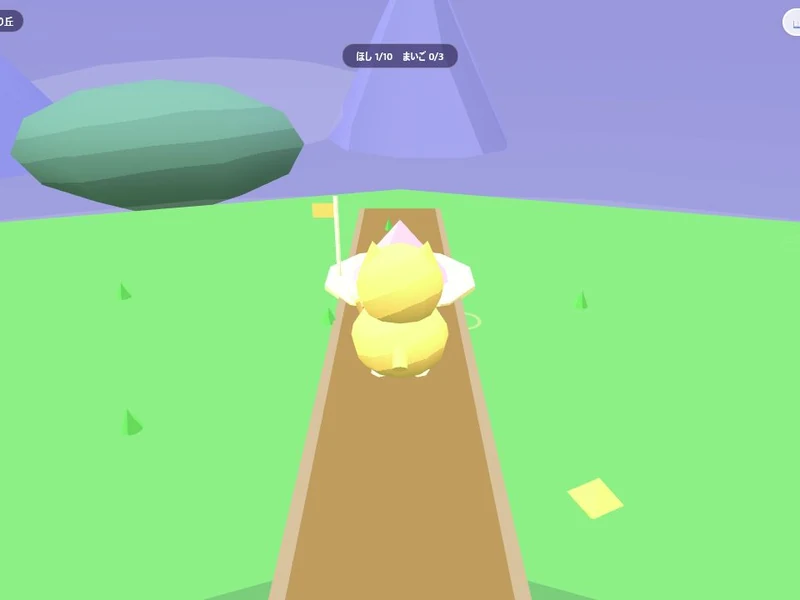
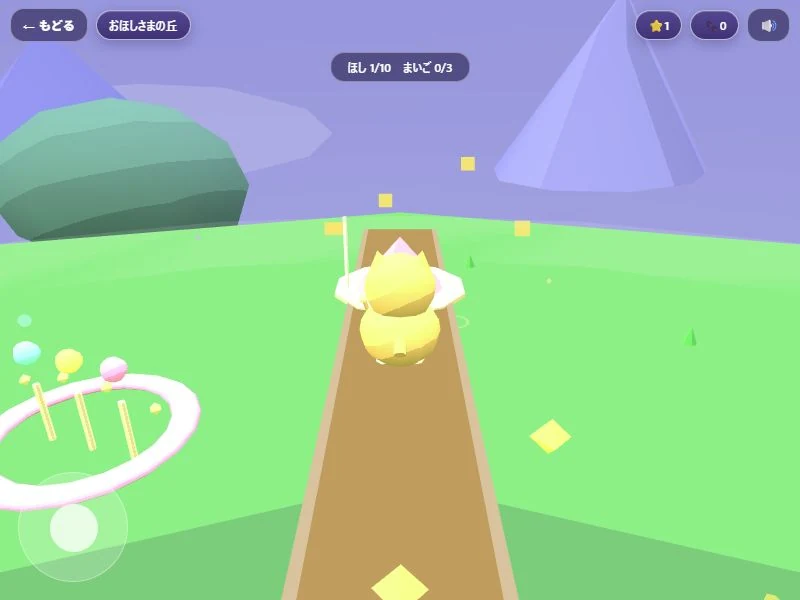
feat: レスキューの演出外観とゲームカードをリッチ化

diff --git a/public/games/starry_animal_rescue_v1.html b/public/games/starry_animal_rescue_v1.html
@@ -11,22 +11,28 @@
     canvas{display:block}
     #game{position:fixed;inset:0}
     .screen{position:fixed;inset:0;z-index:40;display:flex;flex-direction:column;align-items:center;justify-content:center;gap:14px;text-align:center;padding:calc(16px + var(--sat,0px)) calc(16px + var(--sar,0px)) calc(16px + var(--sab,0px)) calc(16px + var(--sal,0px));background:linear-gradient(160deg,var(--sky1),var(--sky2));transition:.3s;overflow-y:auto}
+    .screen.screen-in{animation:screenIn .42s cubic-bezier(.2,.85,.3,1)}
+    @keyframes screenIn{from{opacity:0;transform:scale(1.025)}to{opacity:1;transform:scale(1)}}
     .hidden{display:none!important}
     h1.tt{font-size:clamp(26px,6vw,42px);font-weight:900;margin:0;color:#fff8d8;text-shadow:0 3px 0 rgba(60,40,120,.5)}
     .sub{font-size:14px;font-weight:800;color:#eaf0ff;margin:0}
-    .bigbtn{font-family:inherit;font-weight:900;font-size:18px;color:#4a3a10;background:linear-gradient(180deg,#fff2a8,#ffd35a);border:none;border-radius:20px;padding:14px 40px;cursor:pointer;box-shadow:0 6px 0 #d69a2a;touch-action:manipulation;min-height:52px}
+    .bigbtn{position:relative;overflow:hidden;font-family:inherit;font-weight:900;font-size:18px;color:#4a3a10;background:linear-gradient(180deg,#fffbd1,#ffd35a);border:2px solid rgba(255,255,255,.7);border-radius:22px;padding:14px 40px;cursor:pointer;box-shadow:0 6px 0 #d69a2a,0 10px 24px rgba(21,18,70,.25);touch-action:manipulation;min-height:52px;transition:transform .18s,filter .18s}
+    .bigbtn::after{content:"";position:absolute;inset:-30% auto -30% -35%;width:26%;transform:skewX(-24deg);background:linear-gradient(90deg,transparent,rgba(255,255,255,.75),transparent);animation:btnShine 3.8s ease-in-out infinite}
+    .bigbtn:hover{filter:brightness(1.07);transform:translateY(-2px)}
+    @keyframes btnShine{0%,68%{left:-35%}90%,100%{left:125%}}
     .bigbtn:active{transform:translateY(4px);box-shadow:0 2px 0 #d69a2a}
     .bigbtn.sub2{background:linear-gradient(180deg,#dff0ff,#a8d0ff);color:#1a3a6a;box-shadow:0 6px 0 #6a97cc}
     .bigbtn.sub2:active{box-shadow:0 2px 0 #6a97cc}
     .bigbtn:disabled{opacity:.4;cursor:default}
     .rowwrap{display:flex;flex-wrap:wrap;gap:12px;justify-content:center;max-width:900px}
-    .charcard{width:150px;background:rgba(255,255,255,.92);border-radius:20px;padding:12px 8px;cursor:pointer;border:4px solid transparent;color:#333}
-    .charcard.sel{border-color:#ffd35a;background:#fff9e0}
+    .charcard{width:150px;background:linear-gradient(180deg,rgba(255,255,255,.98),rgba(235,241,255,.94));border-radius:22px;padding:12px 8px;cursor:pointer;border:4px solid transparent;color:#333;box-shadow:0 10px 24px rgba(18,20,75,.2);transition:.2s}
+    .charcard.sel{border-color:#ffd35a;background:#fff9e0;transform:translateY(-6px) scale(1.035);box-shadow:0 0 0 6px rgba(255,211,90,.2),0 14px 28px rgba(18,20,75,.25)}
     .charcard canvas{width:100%;height:110px;display:block;border-radius:12px;background:radial-gradient(circle,#eaf3ff,#cfe0ff)}
     .charcard .cn{font-weight:900;font-size:16px;margin-top:6px}
     .charcard .cf{font-size:11px;color:#666;margin-top:2px;line-height:1.5}
     #stageGrid{display:grid;grid-template-columns:repeat(auto-fit,minmax(140px,1fr));gap:12px;max-width:760px;width:100%}
-    .stagecard{background:rgba(255,255,255,.92);border-radius:18px;padding:12px;cursor:pointer;color:#333;text-align:center}
+    .stagecard{background:linear-gradient(180deg,rgba(255,255,255,.98),rgba(235,241,255,.93));border-radius:20px;padding:12px;cursor:pointer;color:#333;text-align:center;box-shadow:0 9px 22px rgba(18,20,75,.2);border:2px solid rgba(255,255,255,.68);transition:.2s}
+    .stagecard:not(.locked):hover{transform:translateY(-5px);box-shadow:0 0 0 4px rgba(255,223,105,.25),0 13px 26px rgba(18,20,75,.25)}
     .stagecard.locked{opacity:.55;cursor:default}
     .stagecard canvas{width:100%;height:80px;border-radius:10px;display:block}
     .stagecard .sn{font-weight:900;font-size:13px;margin-top:6px}
@@ -35,7 +41,7 @@
     #hud{position:fixed;inset:0;z-index:12;pointer-events:none;opacity:0;transition:.3s}
     #hud.show{opacity:1}
     .hudtop{position:absolute;left:calc(10px + var(--sal,0px));right:calc(10px + var(--sar,0px));top:calc(8px + var(--sat,0px));display:flex;align-items:center;gap:8px;pointer-events:auto}
-    .chip{background:rgba(20,20,60,.55);border:1px solid rgba(255,255,255,.4);border-radius:14px;padding:5px 11px;font-weight:900;font-size:12px;color:#fff;white-space:nowrap}
+    .chip{background:linear-gradient(180deg,rgba(61,60,130,.82),rgba(30,29,90,.78));border:1px solid rgba(255,255,255,.62);border-radius:16px;padding:6px 12px;font-weight:900;font-size:12px;color:#fff;white-space:nowrap;box-shadow:0 4px 13px rgba(10,10,45,.24),inset 0 1px rgba(255,255,255,.2)}
     .spacer{flex:1}
     #goalTxt{position:absolute;left:50%;top:calc(52px + var(--sat,0px));transform:translateX(-50%);background:rgba(20,20,60,.55);border:1px solid rgba(255,255,255,.35);border-radius:14px;padding:6px 16px;font-size:12px;font-weight:800;white-space:nowrap;pointer-events:none}
     #toastMsg{position:absolute;left:50%;top:30%;transform:translate(-50%,-50%) scale(.85);opacity:0;transition:.25s;font-weight:900;font-size:clamp(18px,4vw,26px);color:#fff8d8;text-shadow:0 3px 10px rgba(0,0,0,.4);text-align:center;pointer-events:none;white-space:nowrap}
@@ -49,8 +55,12 @@
     #sparkleBtn .sp-label{font-size:14px}
     #backChip{pointer-events:auto;background:rgba(20,20,60,.55);border:1px solid rgba(255,255,255,.4);border-radius:14px;padding:6px 12px;font-weight:900;font-size:12px;color:#fff;cursor:pointer;min-height:34px}
     #bgmChip{pointer-events:auto;background:rgba(20,20,60,.55);border:1px solid rgba(255,255,255,.4);border-radius:14px;padding:6px 10px;font-size:15px;cursor:pointer;min-height:34px}
-    .resultbox{background:rgba(255,255,255,.95);border-radius:22px;padding:22px 20px;max-width:420px;width:100%;color:#333}
-    .starsrow{font-size:40px;letter-spacing:6px;margin:6px 0}
+    .resultbox{position:relative;overflow:hidden;background:linear-gradient(160deg,#fffef5,#f0ecff);border:4px solid rgba(255,255,255,.9);border-radius:28px;padding:24px 20px;max-width:440px;width:100%;color:#333;box-shadow:0 18px 50px rgba(22,18,85,.35),0 0 45px rgba(255,224,104,.18);animation:resultPop .55s cubic-bezier(.18,.9,.22,1)}
+    .resultbox::before{content:"✦  ·  ✧  ·  ✦";position:absolute;left:0;right:0;top:6px;color:#ffd052;font-size:20px;letter-spacing:12px;animation:twinkle 1.2s ease-in-out infinite alternate}
+    @keyframes resultPop{from{opacity:0;transform:scale(.72) rotate(-2deg)}to{opacity:1;transform:scale(1)}}
+    .starsrow{font-size:44px;letter-spacing:6px;margin:10px 0}
+    .starsrow .on{display:inline-block;animation:starPop .52s cubic-bezier(.2,1.4,.4,1) both}.starsrow .on:nth-child(2){animation-delay:.16s}.starsrow .on:nth-child(3){animation-delay:.32s}
+    @keyframes starPop{from{opacity:0;transform:scale(.15) rotate(-45deg)}to{opacity:1;transform:scale(1) rotate(0)}}
     .starsrow .off{color:#ddd}
     .starsrow .on{color:#ffc93c}
     #dressGrid{display:grid;grid-template-columns:repeat(auto-fit,minmax(90px,1fr));gap:10px;max-width:560px;width:100%}
@@ -64,14 +74,47 @@
     body.portrait #rotate{display:flex}
     a11y-hidden{display:none}
     @media(max-width:480px){ .bigbtn{padding:12px 28px;font-size:16px} }
+
+    /* タイトル：軽量な絵本風ヒーローアート */
+    #scrTitle{isolation:isolate;overflow:hidden;background:radial-gradient(circle at 50% 70%,rgba(255,193,241,.34),transparent 30%),linear-gradient(160deg,#273a8b 0%,#675ac9 50%,#b07fdc 100%)}
+    .title-sky{position:absolute;inset:0;z-index:-2;pointer-events:none;overflow:hidden}
+    .title-sky::before{content:"";position:absolute;inset:0;background-image:radial-gradient(circle,#fffbd7 0 1.5px,transparent 2px),radial-gradient(circle,#d9f7ff 0 1px,transparent 1.6px);background-size:74px 74px,47px 47px;background-position:3px 8px,22px 17px;animation:starsDrift 16s linear infinite}
+    .title-rainbow{position:absolute;width:720px;height:280px;border-radius:50%;border:22px solid rgba(255,157,205,.2);border-left-color:rgba(255,226,116,.2);border-right-color:rgba(132,231,255,.2);left:50%;bottom:-205px;transform:translateX(-50%) rotate(-4deg);box-shadow:0 0 0 18px rgba(167,255,215,.12),0 0 0 38px rgba(191,166,255,.12)}
+    .title-cloud{position:absolute;width:190px;height:54px;border-radius:60px;background:rgba(255,255,255,.2);filter:blur(.2px);animation:cloudFloat 14s linear infinite}.title-cloud::before,.title-cloud::after{content:"";position:absolute;border-radius:50%;background:inherit}.title-cloud::before{width:82px;height:82px;left:28px;bottom:4px}.title-cloud::after{width:62px;height:62px;right:26px;bottom:5px}.title-cloud.c1{top:18%;left:-210px}.title-cloud.c2{top:63%;left:-240px;animation-delay:-7s;transform:scale(.72)}
+    .title-logo{position:relative;max-width:min(760px,92vw);padding:10px 24px 14px;border-radius:30px;background:linear-gradient(180deg,rgba(255,255,255,.13),rgba(255,255,255,.04));border:1px solid rgba(255,255,255,.22);box-shadow:0 14px 40px rgba(15,15,70,.28),inset 0 1px rgba(255,255,255,.25);animation:logoArrive .9s cubic-bezier(.2,.9,.25,1)}
+    #scrTitle h1.tt{font-size:clamp(31px,6.7vw,58px);line-height:1.05;background:linear-gradient(180deg,#fffbd7,#ffd86b 58%,#ffb9dd);-webkit-background-clip:text;background-clip:text;color:transparent;-webkit-text-stroke:1px rgba(99,56,145,.55);text-shadow:0 5px 0 rgba(82,49,139,.48),0 0 22px rgba(255,238,143,.38);animation:logoBob 3s ease-in-out infinite}
+    #scrTitle .sub{font-size:clamp(14px,2.5vw,19px);color:#fff9dd;text-shadow:0 2px 8px rgba(20,18,70,.6);letter-spacing:.08em}
+    .title-mascots{height:120px;width:min(610px,94vw);display:flex;align-items:flex-end;justify-content:center;gap:clamp(10px,4vw,42px);pointer-events:none}
+    .title-mascot{position:relative;width:76px;height:82px;border-radius:48% 48% 42% 42%;background:var(--fur);box-shadow:inset 0 -10px rgba(69,43,83,.1),0 13px 22px rgba(20,18,70,.24);animation:mascotBob 2.3s ease-in-out infinite;transform-origin:50% 100%}
+    .title-mascot::before,.title-mascot::after{content:"";position:absolute;top:-18px;width:31px;height:38px;background:var(--fur);border-radius:65% 65% 35% 35%;z-index:-1}.title-mascot::before{left:3px;transform:rotate(-20deg)}.title-mascot::after{right:3px;transform:rotate(20deg)}
+    .title-mascot .face{position:absolute;inset:26px 12px auto;height:30px;border-radius:50%;background:rgba(255,247,229,.7)}.title-mascot .face::before{content:"•   •";color:#382f4a;font-size:23px;letter-spacing:8px;line-height:12px;white-space:pre}.title-mascot .face::after{content:"ᴗ";display:block;color:#764d5e;font-size:18px;line-height:22px}
+    .title-mascot.m2{animation-delay:-.5s;transform:scale(.9)}.title-mascot.m3{animation-delay:-1.1s}.title-mascot.m4{animation-delay:-1.6s;transform:scale(.9)}
+    .title-lost{position:absolute;right:7%;bottom:12%;width:48px;height:48px;border-radius:50%;background:#fff4b6;box-shadow:0 0 25px #ffe77b;animation:mascotBob 1.8s ease-in-out infinite}.title-lost::after{content:"♡";color:#f28db9;font-size:24px;line-height:48px}
+    @keyframes logoArrive{from{opacity:0;transform:translateY(-35px) scale(.82)}to{opacity:1;transform:none}}@keyframes logoBob{50%{transform:translateY(-5px) scale(1.015)}}@keyframes mascotBob{50%{transform:translateY(-9px) rotate(2deg)}}@keyframes starsDrift{to{background-position:77px 82px,69px 64px}}@keyframes cloudFloat{from{left:-240px}to{left:110%}}@keyframes twinkle{to{opacity:.45;transform:scale(.96)}}
+    .tap-star{position:fixed;z-index:80;color:#fff2a8;font-size:22px;pointer-events:none;animation:tapStar .75s ease-out forwards}@keyframes tapStar{to{opacity:0;transform:translate(var(--dx),var(--dy)) scale(.25) rotate(120deg)}}
+
+    #stageIntro{position:fixed;inset:0;z-index:35;display:none;align-items:center;justify-content:center;pointer-events:none;background:radial-gradient(circle,rgba(255,246,191,.22),rgba(36,38,110,.28));backdrop-filter:blur(2px)}
+    #stageIntro.show{display:flex;animation:introFade 1.55s ease both}
+    .intro-card{padding:20px 34px;border:2px solid rgba(255,255,255,.72);border-radius:28px;background:linear-gradient(160deg,rgba(64,57,145,.9),rgba(125,91,190,.82));box-shadow:0 16px 45px rgba(15,15,65,.38),0 0 34px rgba(255,226,109,.28);transform:scale(.8);animation:introCard 1.55s cubic-bezier(.2,.9,.3,1) both}
+    #stageIntroName{font-size:clamp(28px,6vw,50px);font-weight:900;color:#fff7c7;text-shadow:0 4px rgba(61,38,118,.6)}#stageIntroMission{font-size:clamp(14px,2.8vw,20px);font-weight:900;color:#dff8ff;margin-top:8px}
+    @keyframes introFade{0%{opacity:0}18%,76%{opacity:1}100%{opacity:0}}@keyframes introCard{0%{transform:scale(.65) translateY(24px)}25%,72%{transform:scale(1)}100%{transform:scale(1.04) translateY(-8px)}}
   </style>
 </head>
 <body>
   <div id="game"></div>
 
   <div id="scrTitle" class="screen">
-    <h1 class="tt">ほしぞらアニマルレスキュー</h1>
-    <p class="sub">どうぶつたちを たすけにいこう！</p>
+    <div class="title-sky"><div class="title-rainbow"></div><div class="title-cloud c1"></div><div class="title-cloud c2"></div><div class="title-lost"></div></div>
+    <div class="title-logo">
+      <h1 class="tt">ほしぞら<br>アニマルレスキュー</h1>
+      <p class="sub">ほしを あつめて まいごを たすけよう！</p>
+    </div>
+    <div class="title-mascots" aria-hidden="true">
+      <div class="title-mascot m1" style="--fur:#ffcf7a"><span class="face"></span></div>
+      <div class="title-mascot m2" style="--fur:#ffe6f0"><span class="face"></span></div>
+      <div class="title-mascot m3" style="--fur:#c98a5a"><span class="face"></span></div>
+      <div class="title-mascot m4" style="--fur:#ff9a52"><span class="face"></span></div>
+    </div>
     <button class="bigbtn" id="btnStart" aria-label="はじめる">はじめる</button>
     <button class="bigbtn sub2 hidden" id="btnContinue" aria-label="つづきから">つづきから</button>
     <button class="bigbtn sub2" id="btnMusicTitle" aria-label="おんがく">🎵 おんがく</button>
@@ -131,6 +174,8 @@
     <div id="joyBase"><div id="joyNub"></div></div>
     <button id="sparkleBtn" aria-label="きらきらアクション"><span class="sp-ico">✨</span><span class="sp-label" id="sparkleLabel">キラキラ</span></button>
   </div>
+
+  <div id="stageIntro" aria-hidden="true"><div class="intro-card"><div id="stageIntroName"></div><div id="stageIntroMission"></div></div></div>
 
   <div id="rotate"><div class="ph">📱</div><div>よこむきにして<br>あそんでね</div></div>
 
@@ -376,6 +421,7 @@ function burst(x,y,z,color,count,speed){
     d.vx=Math.cos(th)*Math.cos(ph)*sp; d.vy=Math.sin(ph)*sp+2; d.vz=Math.sin(th)*Math.cos(ph)*sp;
     pCol[idx*3]=col.r; pCol[idx*3+1]=col.g; pCol[idx*3+2]=col.b;
   }
+  pGeo.attributes.color.needsUpdate = true;
 }
 function updateParticles(dt){
   for(var i=0;i<P_MAX;i++){
@@ -386,6 +432,28 @@ function updateParticles(dt){
     }
   }
   pGeo.attributes.position.needsUpdate = true;
+}
+function addMagicMotes(group,st,anim){
+  var cols=[0xfff0a8,0xc9f7ff,0xffbddd,0xcbbcff];
+  for(var i=0;i<14;i++){
+    var m=meshOf(GEO.octa,new THREE.MeshBasicMaterial({color:cols[(i+st.id)%cols.length],transparent:true,opacity:.62,depthWrite:false,fog:true}));
+    m.scale.setScalar(.055+(i%3)*.018);
+    var a=i/14*Math.PI*2, r=5+(i%5)*3.1;
+    m.position.set(Math.cos(a)*r,.8+(i%4)*.55,Math.sin(a)*r);
+    m.userData={cx:m.position.x,cy:m.position.y,cz:m.position.z,r:.25+(i%3)*.12,phase:i*.83};
+    group.add(m); anim.motes.push(m);
+  }
+}
+function addWelcomeScene(group,st,start,anim){
+  var root=new THREE.Group(); root.position.set(4.2,0,start.z-3.4); root.rotation.y=-.3;
+  var palette=st.id===0?[0xff8fc8,0xffdf69,0x77e7db]:st.id===1?[0xaedcff,0xffffff,0xffbddd]:st.id===2?[0xff75c8,0x75e8ff,0xffdf58]:st.id===3?[0xb78cff,0x78efc8,0xffc2ec]:[0x8fdcff,0xffdf79,0xd3a8ff];
+  for(var i=0;i<3;i++){
+    var pole=meshOf(GEO.cyl,mat(0xfff1c4)); pole.scale.set(.045,.9,.045); pole.position.set((i-1)*.7,.9,0); root.add(pole);
+    var bulb=meshOf(GEO.sphereLo,mat(palette[i],{emissive:palette[i],emissiveIntensity:.32})); bulb.scale.setScalar(.16); bulb.position.set((i-1)*.7,1.82,0); root.add(bulb);
+  }
+  var ribbon=meshOf(GEO.torus,mat(palette[st.id%3],{emissive:palette[st.id%3],emissiveIntensity:.2})); ribbon.scale.set(1.25,1.25,.45); ribbon.position.y=.75; ribbon.rotation.x=Math.PI/2; root.add(ribbon);
+  for(var j=0;j<4;j++){var star=meshOf(GEO.octa,mat(0xffef8c,{emissive:0xaa7a20,emissiveIntensity:.28}));star.scale.setScalar(.09);star.position.set(-1.1+j*.72,1.25+Math.sin(j)*.22,.12);root.add(star);}
+  group.add(root);
 }
 
 /* ---------- キャラクター生成（頭・胴・手足・しっぽを分離、背面からも動物と分かる形状） ---------- */
@@ -400,8 +468,12 @@ function buildCharacterMesh(charId, equipped){
   var muzzle = meshOf(GEO.sphereLo, mat(0xf3ede0)); muzzle.scale.set(0.2,0.16,0.22); muzzle.position.set(0,0.97,0.4); g.add(muzzle);
   var cheekMat = mat(0xffb3c9);
   [-0.19,0.19].forEach(function(sx){ var ch=meshOf(GEO.sphereLo, cheekMat); ch.scale.setScalar(0.075); ch.position.set(sx,0.96,0.38); g.add(ch); });
-  var eyeMat = mat(0x333333);
-  [-0.16,0.16].forEach(function(sx){ var ey=meshOf(GEO.sphereLo, eyeMat); ey.scale.setScalar(0.05); ey.position.set(sx,1.05,0.44); g.add(ey); });
+  var eyeMat = mat(0x333333), eyes=[];
+  [-0.16,0.16].forEach(function(sx){
+    var ey=meshOf(GEO.sphere, eyeMat); ey.scale.set(0.058,0.072,0.045); ey.position.set(sx,1.06,0.445); g.add(ey); eyes.push(ey);
+    var hi=meshOf(GEO.sphereLo,mat(0xfffcf0)); hi.scale.setScalar(0.017); hi.position.set(sx-0.014,1.085,0.486); g.add(hi);
+  });
+  var nose=meshOf(GEO.sphereLo,mat(0x6f4853)); nose.scale.set(0.045,0.035,0.035); nose.position.set(0,0.99,0.56); g.add(nose);
   /* 耳（大きめ・種別ごとの形） */
   var ears=[];
   if(c.ear==="cat" || c.ear==="fox"){
@@ -456,7 +528,7 @@ function buildCharacterMesh(charId, equipped){
   extras.wandStar = star;
 
   g.userData.headY = 1.04; g.userData.extras = extras;
-  g.userData.legs = legs; g.userData.arms = arms; g.userData.tail = tail; g.userData.ears = ears; g.userData.body = body;
+  g.userData.legs = legs; g.userData.arms = arms; g.userData.tail = tail; g.userData.ears = ears; g.userData.body = body; g.userData.eyes=eyes;
   g.userData.animPhase = Math.random()*Math.PI*2;
   return g;
 }
@@ -464,7 +536,8 @@ function buildCharacterMesh(charId, equipped){
 function animateCharacterMesh(g, dt, now, moving){
   if(!g || !g.userData) return;
   var ph = g.userData.animPhase||0;
-  var legs = g.userData.legs, arms = g.userData.arms, tail = g.userData.tail, ears = g.userData.ears, body = g.userData.body;
+  var legs = g.userData.legs, arms = g.userData.arms, tail = g.userData.tail, ears = g.userData.ears, body = g.userData.body, eyes=g.userData.eyes;
+  if(eyes){ var blink=((now+ph*900)%4200)>4050; eyes.forEach(function(e){e.scale.y=blink?0.012:0.072;}); }
   if(moving){
     var w = now*0.012;
     if(legs) legs.forEach(function(lg, i){ lg.rotation.x = Math.sin(w + (i%2?Math.PI:0))*0.6; });
@@ -1025,7 +1098,11 @@ function syncBgmIcons(){
 /* ---------- 画面制御 ---------- */
 var screens = ["scrTitle","scrChar","scrStage","scrResult","scrDress"];
 function showScreen(id){
-  screens.forEach(function(s){ document.getElementById(s).classList.toggle("hidden", s!==id); });
+  screens.forEach(function(s){
+    var el=document.getElementById(s), active=s===id;
+    el.classList.toggle("hidden",!active);
+    if(active){ el.classList.remove("screen-in"); void el.offsetWidth; el.classList.add("screen-in"); }
+  });
   document.getElementById("hud").classList.toggle("show", id===null);
 }
 function $(id){ return document.getElementById(id); }
@@ -1230,13 +1307,28 @@ function renderDressPreview(){
 var curStageIdx = -1, stageObjs = null, player=null, playerParts=null;
 var joyActive=false, joyId=null, joyOrigin={x:0,y:0}, joyVec={x:0,y:0};
 var keys = {};
-var camYaw=0, camDist=7.6, camHeight=3.7;
+var camYaw=0, camDist=9.1, camHeight=4.35;
 var camZoom=1, camZoomTarget=1;
 var CAM_ZOOM_MIN=0.72, CAM_ZOOM_MAX=1.55;
 var lastSafe = new THREE.Vector3(0,0,0);
 var lastSafeTimer = 0;
 var runState = { stars:0, rescued:0, task:0, done:false, finishing:false };
 var activeAction = null;
+var lastStepFx=0;
+var STAGE_MISSIONS=[
+  "まいごを たすけよう！",
+  "あまぐもを きれいに！",
+  "のりものを ひからせよう！",
+  "おはなを さかせよう！",
+  "ほしくじらに ひかりを とどけよう！"
+];
+function showStageIntro(idx){
+  var intro=$("stageIntro");
+  $("stageIntroName").textContent=STAGES[idx].name;
+  $("stageIntroMission").textContent=STAGE_MISSIONS[idx];
+  intro.classList.remove("show"); void intro.offsetWidth; intro.classList.add("show");
+  setTimeout(function(){intro.classList.remove("show");},1600);
+}
 
 function clearStageObjs(){
   if(stageObjs){
@@ -1259,12 +1351,12 @@ function startStage(idx){
   clearStageObjs();
   buildStageWorld(st);
   camZoom = 1; camZoomTarget = 1;
-  runState = { stars:0, rescued:0, task:0, done:false, finishing:false };
+  runState = { stars:0, rescued:0, task:0, done:false, finishing:false, introUntil:performance.now()+1450 };
   updateHud();
   showScreen(null);
   $("stageNameChip").textContent = st.name;
   playBGM(st.bgm);
-  showToast(st.name);
+  showStageIntro(idx);
   updateGoalText(st);
 }
 
@@ -1858,6 +1950,8 @@ function buildStageWorld(st){
   else built = buildWhaleStage(group, st, anim, batcher);
   stageObjs.stars = built.stars; stageObjs.rescues = built.rescues; stageObjs.tasks = built.tasks; stageObjs.goal = built.goal;
   playerStart = built.playerStart;
+  addMagicMotes(group,st,anim);
+  addWelcomeScene(group,st,playerStart,anim);
 
   var safeInnerRadius = computeSafeInnerRadius(group, st, playerStart);
   /* 霞レイヤーがすっかり霧に隠れて消えないよう、霧の遠端も背景半径に合わせて広げる */
@@ -2246,6 +2340,11 @@ function tick(now){
   if(document.hidden) return;
 
   if(player && stageObjs && !runState.finishing){
+    if(runState.introUntil && now<runState.introUntil){
+      animateCharacterMesh(player,dt,now,false);
+      if(stageObjs.playerShadow){stageObjs.playerShadow.position.x=player.position.x;stageObjs.playerShadow.position.z=player.position.z;}
+      renderer.render(scene,camera); return;
+    }
     /* 上昇気流：範囲に入るとふわっと上の雲へ（操作不能時間は短く、落下扱いにしない） */
     if(stageObjs.updraft && !stageObjs.riding){
       var du = player.position.distanceTo(stageObjs.updraft.pos);
@@ -2283,6 +2382,7 @@ function tick(now){
         player.rotation.y += dr*Math.min(1,dt*10);
       }
       player.position.y = Math.abs(Math.sin(now*0.008))*0.06;
+      if(now-lastStepFx>150){ lastStepFx=now; burst(player.position.x,0.15,player.position.z,curStageIdx===2?0xffb8ed:0xffed9a,2,0.65); }
     }
     animateCharacterMesh(player, dt, now, mvLen>0.08);
     /* 星の自動収集（磁石半径） */
@@ -2398,6 +2498,14 @@ function tick(now){
 $("btnStart").addEventListener("click", function(){ ensureAudio(); pickedChar=S.selectedCharacter; buildCharGrid(); showScreen("scrChar"); });
 $("btnContinue").addEventListener("click", function(){ ensureAudio(); buildStageGrid(); showScreen("scrStage"); playBGM("magical"); });
 $("btnMusicTitle").addEventListener("click", function(){ ensureAudio(); toggleBGM(); });
+$("scrTitle").addEventListener("pointerdown",function(e){
+  for(var i=0;i<5;i++){
+    var s=document.createElement("span"); s.className="tap-star"; s.textContent=i%2?"✦":"★";
+    s.style.left=(e.clientX-8)+"px"; s.style.top=(e.clientY-10)+"px";
+    s.style.setProperty("--dx",((Math.random()-.5)*110)+"px"); s.style.setProperty("--dy",(-25-Math.random()*75)+"px");
+    document.body.appendChild(s); setTimeout(function(el){el.remove();},800,s);
+  }
+});
 $("btnCharBack").addEventListener("click", function(){ showScreen("scrTitle"); });
 $("btnCharGo").addEventListener("click", function(){
   S.selectedCharacter = pickedChar; saveGame();

diff --git a/src/pages/TopPage.jsx b/src/pages/TopPage.jsx
@@ -1439,7 +1439,6 @@ const THUMB_ALIASES = {
 };
 const NO_THUMB_ROUTES = new Set([
   '/neon-drive',
-  '/astral-fang',
 ]);
 
 function thumbFor(game) {
